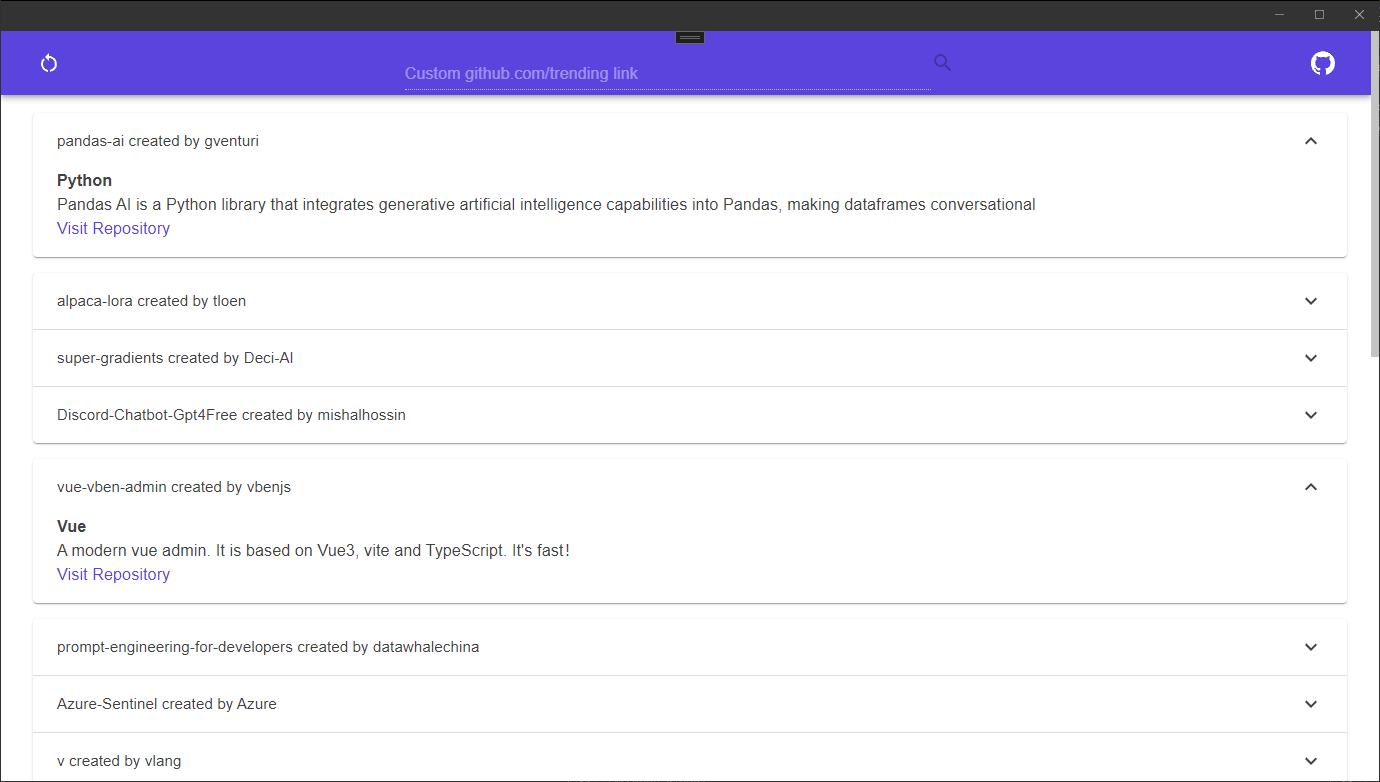
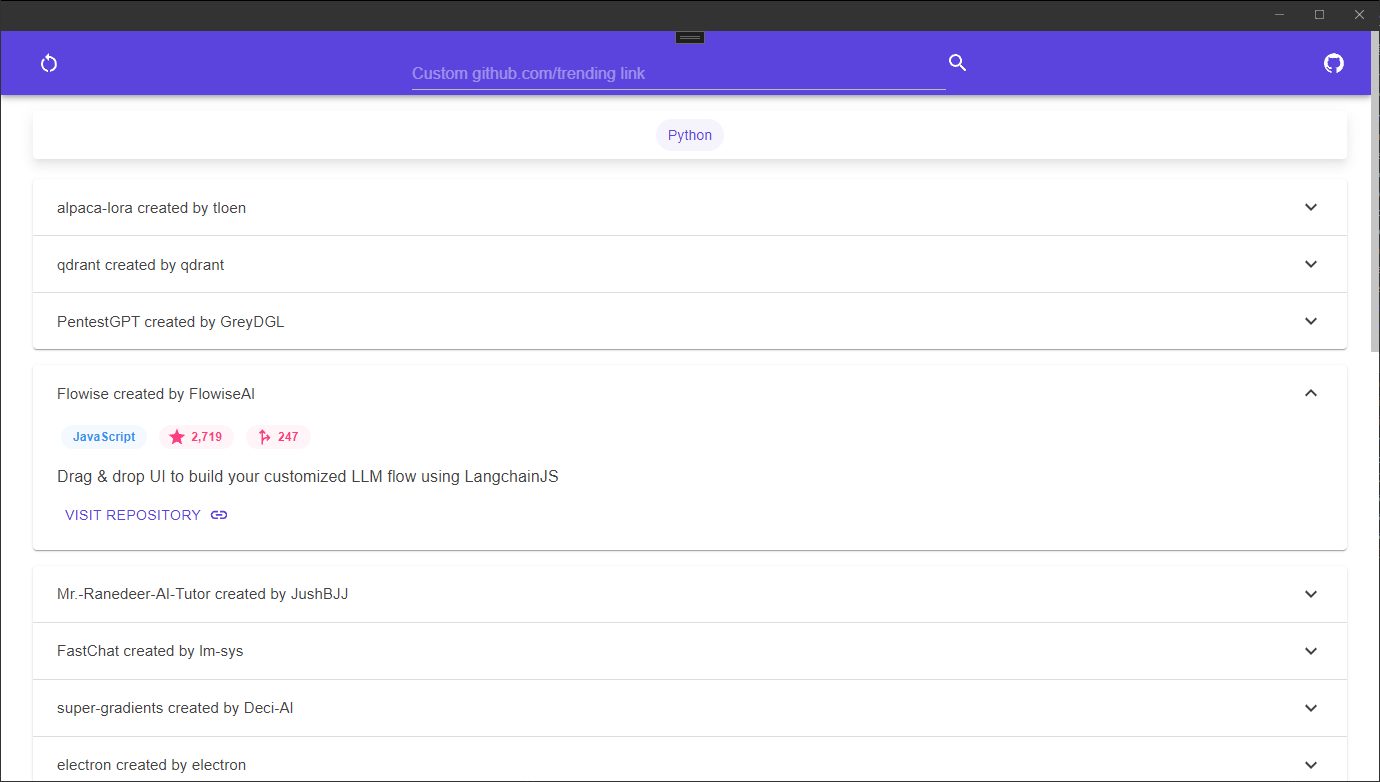
Added missing details: - Displaying the top-used language above the results - Custom query url enabled - Gave the Entry it's own component and added the other details like fork- and star-number to it

diff --git a/MainPage.xaml b/MainPage.xaml
@@ -5,7 +5,7 @@
              x:Class="GithubExplorer.MainPage"
              BackgroundColor="{DynamicResource PageBackgroundColor}">
 
-    <BlazorWebView x:Name="blazorWebView" HostPage="wwwroot/index.html">
+    <BlazorWebView x:Name="blazorWebView" HostPage="wwwroot/index.html" BlazorWebViewInitialized="BlazorWebViewInitialized">
         <BlazorWebView.RootComponents>
             <RootComponent Selector="#app" ComponentType="{x:Type local:Main}" />
         </BlazorWebView.RootComponents>

diff --git a/Services/GithubTrendingManager.cs b/Services/GithubTrendingManager.cs
@@ -3,19 +3,18 @@ using System.Linq;
 using System.Text;
 using HtmlAgilityPack;
 using GithubExplorer.Models;
+using System.Net;
 
 namespace GithubExplorer.Services
 {
 	public class GithubTrendingManager
 	{
-		public List<TrendEntry> GetAllTrendEntries(string customquery = "https://github.com/trending")
+		public Tuple<List<TrendEntry>, string> GetAllTrendEntries(string customquery = "https://github.com/trending")
 		{
-			List<TrendEntry> entries = new();
-			string QueryUrl = customquery;
-
+			List<TrendEntry> TrendingRepositoriesList = new();
 			HtmlWeb Github = new();
-			HtmlDocument GithubDoc = Github.Load(QueryUrl);
 
+			HtmlDocument GithubDoc = Github.Load(customquery);
 			IEnumerable<HtmlNode> nodes = GithubDoc.QuerySelectorAll("article.Box-row");
 
 			foreach (HtmlNode productElement in nodes)
@@ -32,6 +31,7 @@ namespace GithubExplorer.Services
 					if (Description != null)
 					{
 						DescriptionFiltered = FilterLineBreaks(Description.InnerText);
+						DescriptionFiltered = WebUtility.HtmlDecode(DescriptionFiltered);
 					}
 					string UsernameFiltered = FilterLineBreaks(Username.InnerText.Replace(" /", string.Empty));
 
@@ -48,7 +48,7 @@ namespace GithubExplorer.Services
 					string TotalStarsFiltered = FilterLineBreaks(TotalForksAndStars[0].InnerText);
 					string TotalForksFiltered = FilterLineBreaks(TotalForksAndStars[1].InnerText);
 
-					string ProgrammingLanguage = "No programming language";
+					string ProgrammingLanguage = "None";
 					if (productElement.QuerySelectorAll("article.Box-row > div > span > span") != null)
 					{
 						IList<HtmlNode> ProgrammingLanguageElementCount = productElement.QuerySelectorAll("article.Box-row > div > span > span");
@@ -58,7 +58,7 @@ namespace GithubExplorer.Services
 						}
 					}
 
-					entries.Add(new(UsernameFiltered, RepositoryLinkFiltered, RepositoryName, DescriptionFiltered, TotalStarsFiltered, TotalForksFiltered, ProgrammingLanguage));
+					TrendingRepositoriesList.Add(new(UsernameFiltered, RepositoryLinkFiltered, RepositoryName, DescriptionFiltered, TotalStarsFiltered, TotalForksFiltered, ProgrammingLanguage));
 				}
 				catch (Exception)
 				{
@@ -66,9 +66,24 @@ namespace GithubExplorer.Services
 				}
 			}
 
-			return entries;
+			string TopLanguage = MostOccuringString(TrendingRepositoriesList);
+			return new Tuple<List<TrendEntry>, string>(TrendingRepositoriesList, TopLanguage);
 		}
 
+		private string MostOccuringString(List<TrendEntry> trendEntries)
+		{
+			IEnumerable<IGrouping<string, TrendEntry>> nameGroup = trendEntries.GroupBy(x => x.Programminglanguage);
+			int maxCount = nameGroup.Max(g => g.Count());
+
+			string[] mostCommons = nameGroup.Where(x => x.Count() == maxCount).Select(x => x.Key).ToArray();
+			return mostCommons[0];
+		}
+
+		/// <summary>
+		/// Simple method to remove linebreaks and useless whitespaces that are typically inside the html-strings.
+		/// </summary>
+		/// <param name="textin">Unfiltered string</param>
+		/// <returns>Filtered string</returns>
 		private string FilterLineBreaks(string textin)
 		{
 			StringBuilder sb = new(textin.Length);

diff --git a/Services/DataMan.cs b/Services/DataMan.cs
@@ -7,5 +7,28 @@ namespace GithubExplorer.Services
 	{
 		public string ActiveGithubUrl { get; set; } = "https://github.com/trending";
 
+		public string MostUsedProgramminglanguage { get; set; }
+
+		public string GithubTopicsProgrammingLanguageUrl(string textin)
+		{
+			if (textin != "None" && !string.IsNullOrEmpty(textin))
+			{
+				string LanguageName = textin.Replace(" ", "-");
+				if (string.Equals(LanguageName, "C#", StringComparison.InvariantCultureIgnoreCase))
+				{
+					LanguageName = "csharp";
+				}
+				else if (string.Equals(LanguageName, "C++", StringComparison.InvariantCultureIgnoreCase))
+				{
+					LanguageName = "Cpp";
+				}
+				return $"https://github.com/topics/{LanguageName}";
+			}
+			else
+			{
+				return string.Empty;
+			}
+		}
+
 	}
 }

diff --git a/MainPage.xaml.cs b/MainPage.xaml.cs
@@ -6,4 +6,14 @@ public partial class MainPage : ContentPage
 	{
 		InitializeComponent();
 	}
+
+	private void BlazorWebViewInitialized(object sender, Microsoft.AspNetCore.Components.WebView.BlazorWebViewInitializedEventArgs e)
+	{
+#if WINDOWS
+		e.WebView.CoreWebView2.Settings.IsZoomControlEnabled = false;
+		e.WebView.CoreWebView2.Settings.IsGeneralAutofillEnabled = false;
+		e.WebView.CoreWebView2.Settings.IsPasswordAutosaveEnabled = false;
+		e.WebView.CoreWebView2.Settings.IsPinchZoomEnabled = false;
+#endif
+	}
 }

diff --git a/Pages/Index.razor.cs b/Pages/Index.razor.cs
@@ -19,7 +19,10 @@ namespace GithubExplorer.Pages
 
 		protected override async Task OnInitializedAsync()
 		{
-			entries = TrendMan.GetAllTrendEntries(Datamanager.ActiveGithubUrl);
+			Tuple<List<TrendEntry>, string> EntriesAndToplanguage = TrendMan.GetAllTrendEntries(Datamanager.ActiveGithubUrl);
+
+			entries = EntriesAndToplanguage.Item1;
+			Datamanager.MostUsedProgramminglanguage = EntriesAndToplanguage.Item2;
 		}
 
 	}

diff --git a/Components/Entry.razor.cs b/Components/Entry.razor.cs
@@ -1,0 +1,18 @@
+using System;
+using System.Linq;
+using GithubExplorer.Models;
+using GithubExplorer.Services;
+using Microsoft.AspNetCore.Components;
+
+namespace GithubExplorer.Components
+{
+	partial class Entry
+	{
+		[Parameter]
+		public TrendEntry EntryItem { get; set; }
+
+		[Inject]
+		public DataMan Datamanager { get; set; }
+
+	}
+}

diff --git a/Shared/MainLayout.razor.cs b/Shared/MainLayout.razor.cs
@@ -12,7 +12,6 @@ namespace GithubExplorer.Shared
 		[Inject]
 		public NavManUtils NavMan { get; set; }
 
-
 		[Inject]
 		public DataMan Datamanager { get; set; }
 

diff --git a/README.md b/README.md
@@ -1,6 +1,6 @@
 # GithubExplorer
 
-GithubExplorer is a .NET MAUI application that allows you to view the Github Trend page locally on your PC without the need to open a browser. It provides a easy way to explore repositories and, if interested, open them in the browser for further details.
+GithubExplorer is a .NET MAUI application that allows you to view the Github Trend page on your device without the need to open a browser. It provides a easy way to explore repositories and, if interested, open them in the browser for further details.
 
 
 ## Features
@@ -19,7 +19,7 @@ GithubExplorer is a .NET MAUI application that allows you to view the Github Tre
 - View a small important part of the Github Trend page, without opening a browser.
 - Open a repository in the browser for more information using the provided button.
 ###
-- Work in progress: Ability to add custom Trend page links, such as searching for repositories based on programming languages or specific criteria.
+- Work in progress: Save the custom page url somewhere
 - Work in progress: Details-button, to load more details of a certain repository (All languages, contributors, last update etc.)
 
 ## Screenshot(s)
